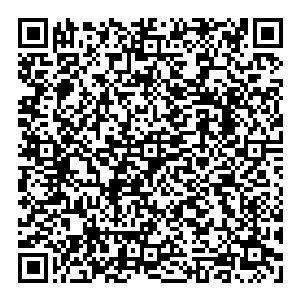
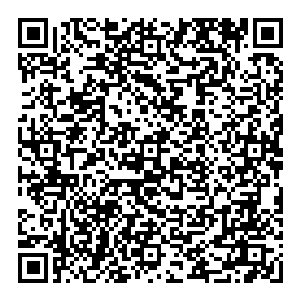
API simple con NoAuth - compatible con Render

Changed region(s): [[0.06, 0.06, 0.96, 0.96], [0.48, 0.06, 0.51, 0.12], [0.9, 0.93, 0.93, 0.96]]

diff --git a/api-simple.js b/api-simple.js
@@ -1,0 +1,153 @@
+require('dotenv').config();
+const express = require('express');
+const { Client, NoAuth } = require('whatsapp-web.js');
+const nodemailer = require('nodemailer');
+const qrcode = require('qrcode');
+
+const app = express();
+app.use(express.json());
+app.use((req, res, next) => {
+  res.header('Access-Control-Allow-Origin', '*');
+  res.header('Access-Control-Allow-Methods', 'GET, POST, OPTIONS');
+  res.header('Access-Control-Allow-Headers', 'Content-Type');
+  if (req.method === 'OPTIONS') return res.sendStatus(200);
+  next();
+});
+
+let messages = [];
+let ready = false;
+let currentQR = null;
+
+// Email transporter
+const transporter = process.env.EMAIL_USER ? nodemailer.createTransporter({
+  service: 'gmail',
+  auth: { user: process.env.EMAIL_USER, pass: process.env.EMAIL_PASS }
+}) : null;
+
+const client = new Client({
+  authStrategy: new NoAuth(),
+  puppeteer: { 
+    headless: true, 
+    args: [
+      '--no-sandbox',
+      '--disable-setuid-sandbox',
+      '--disable-dev-shm-usage',
+      '--no-first-run'
+    ]
+  }
+});
+
+client.on('qr', async (qr) => {
+  currentQR = qr;
+  console.log('📱 QR generado');
+  console.log('\n=== QR STRING ===');
+  console.log(qr);
+  console.log('=== FIN QR ===\n');
+  
+  if (transporter) {
+    try {
+      const qrBuffer = await qrcode.toBuffer(qr, { width: 300 });
+      await transporter.sendMail({
+        from: process.env.EMAIL_USER,
+        to: process.env.EMAIL_USER,
+        subject: '📱 WhatsApp QR',
+        attachments: [{ filename: 'qr.png', content: qrBuffer }]
+      });
+      console.log('✅ QR enviado por email');
+    } catch (e) {
+      console.log('❌ Error email:', e.message);
+    }
+  }
+});
+
+client.on('ready', () => {
+  ready = true;
+  console.log('🚀 Bot conectado');
+});
+
+client.on('message', (msg) => {
+  const messageData = {
+    id: msg.id._serialized,
+    from: msg.from,
+    body: msg.body,
+    timestamp: Date.now(),
+    isGroup: msg.from.includes('@g.us')
+  };
+  
+  messages.unshift(messageData);
+  if (messages.length > 100) messages.pop();
+  console.log(`📨 ${msg.from}: ${msg.body}`);
+});
+
+// API Endpoints
+app.get('/status', (req, res) => {
+  res.json({ 
+    ready, 
+    messages: messages.length,
+    hasQR: !!currentQR 
+  });
+});
+
+app.get('/messages', (req, res) => {
+  res.json({ 
+    success: true,
+    count: messages.length,
+    messages 
+  });
+});
+
+app.get('/qr', (req, res) => {
+  if (currentQR) {
+    res.json({ 
+      success: true,
+      qr: currentQR 
+    });
+  } else {
+    res.json({ 
+      success: false,
+      error: 'QR no disponible' 
+    });
+  }
+});
+
+app.post('/send', async (req, res) => {
+  const { number, message } = req.body;
+  
+  if (!ready) {
+    return res.status(503).json({ 
+      success: false,
+      error: 'Bot no conectado' 
+    });
+  }
+  
+  if (!number || !message) {
+    return res.status(400).json({ 
+      success: false,
+      error: 'Número y mensaje requeridos' 
+    });
+  }
+  
+  try {
+    const chatId = number.includes('@c.us') ? number : `${number}@c.us`;
+    const chat = await client.getChatById(chatId);
+    await chat.sendMessage(message);
+    
+    res.json({ 
+      success: true,
+      message: 'Enviado correctamente',
+      to: chatId
+    });
+  } catch (error) {
+    res.status(500).json({ 
+      success: false,
+      error: 'Error enviando mensaje' 
+    });
+  }
+});
+
+client.initialize();
+
+const PORT = process.env.PORT || 3000;
+app.listen(PORT, () => {
+  console.log(`🌐 API corriendo en puerto ${PORT}`);
+});

diff --git a/generate-qr.js b/generate-qr.js
@@ -1,6 +1,6 @@
 const qrcode = require('qrcode');
 
-const qrString = '2@KS10tVAlkbd780S6rQaypMwp9Q74WrYv6MycPxOtxXmYKYclc16LE8v4l8yl0y0ilg1y+PIBgcUDf8riSen8gTnABQM+Sz5MhVk=,FZNY1chCuuLUQd7jxmvwK7yiQcxbdHyOl90ferp68Ug=,eBT+vPRbhxSI9NhHOeLjJyTU6FsmJa7ba3n53ObV8yg=,Txg8c32s57aZFkKtJMu7Qfua1suV9oE1Mhrfkk5nhAE=,1';
+const qrString = '2@Z7iSvhRXjGRf/YGEhfJv6VbJRprdrefT8aNHhJg3O+Pv7c/WLuBdaGAs2iLkMwCpdzPbk8sCra+P6yghhwuIKmciXALgZOPKbIw=,3xZc/TW1i+oSmYM9k5MuDqLo9qAqFK44HUsoeiCIHlk=,KHoJNyYa37PG5Td2H2e5hVZR+VVfeoSsuAymzjkW/0k=,FVal9+2TU5+IqUYwWIUgb9HBCUfLDc1sqOg5OV3Zktw=,1';
 
 qrcode.toFile('whatsapp-qr.png', qrString, { width: 300 }, (err) => {
   if (err) {
